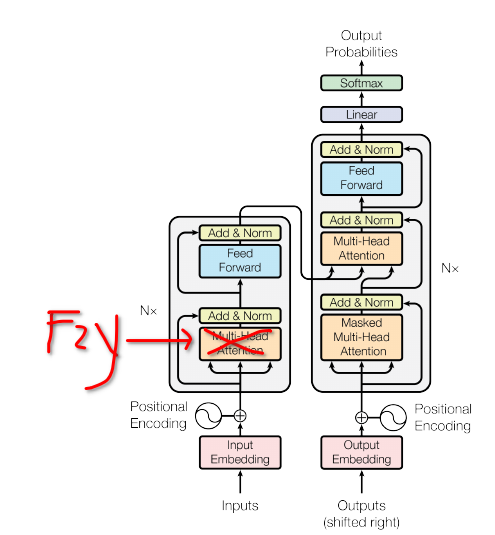
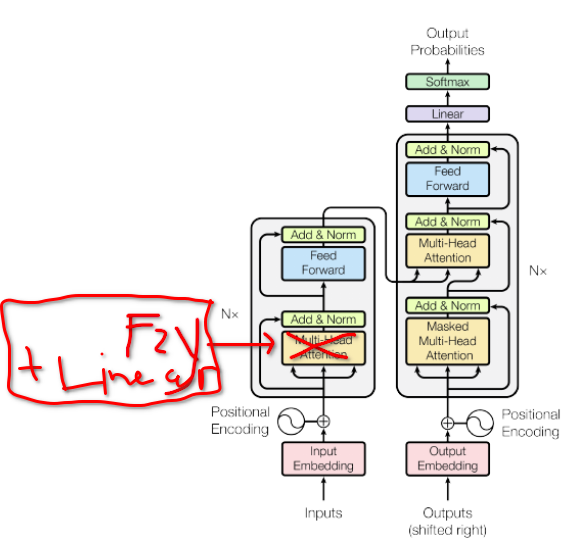
upd: model 5 arch

Changed region(s): [[0.0, 0.0299, 0.9697, 1.0]]

diff --git a/proposal-5.py b/proposal-5.py
@@ -43,7 +43,7 @@ class Proposal5EncoderLayer(nn.TransformerEncoderLayer):
     """
     __constants__ = ['batch_first', 'norm_first']
 
-    def __init__(self, d_model, nhead, dim_feedforward=2048, dropout=0.1, activation=F.relu,
+    def __init__(self, d_model, nhead, dim_fuzzy=128, dim_feedforward=2048, dropout=0.1, activation=F.relu,
                  layer_norm_eps=1e-5, batch_first=False, norm_first=False,
                  device=None, dtype=None) -> None:
         factory_kwargs = {'device': device, 'dtype': dtype}
@@ -58,8 +58,10 @@ class Proposal5EncoderLayer(nn.TransformerEncoderLayer):
             norm_first=norm_first,
             device=device, 
             dtype=dtype)
-        self.fuzzy_membership = MembershipFunctionLayer(d_model, d_model)
+        self.fuzzy_membership = MembershipFunctionLayer(d_model, dim_fuzzy)
         self.fuzzy_rule = FuzzyRuleLayer()
+        self.linear0 = nn.Linear(dim_fuzzy, d_model)
+
         # Implementation of Feedforward model
         self.linear1 = nn.Linear(d_model, dim_feedforward, **factory_kwargs)
         self.dropout = nn.Dropout(dropout)
@@ -93,20 +95,21 @@ class Proposal5EncoderLayer(nn.TransformerEncoderLayer):
 
         x = src
         if self.norm_first:
-            x = x + self.fuzzy_block(self.norm1(x))
+            x = x + self.fuzzy_block_new(self.norm1(x))
             x = x + super()._ff_block(self.norm2(x))
         else:
-            x = self.norm1(x + self.fuzzy_block(x))
+            x = self.norm1(x + self.fuzzy_block_new(x))
             x = self.norm2(x + super()._ff_block(x))
         return x
 
-    def fuzzy_block (self, x: torch.Tensor)->torch.Tensor:
-        x = self.fuzzy_rule(self.fuzzy_membership(x))
+    def fuzzy_block_new (self, x: torch.Tensor)->torch.Tensor:
+        x = self.linear0(self.fuzzy_rule(self.fuzzy_membership(x)))
         return self.dropout1(x)
 
 
 class Proposal5Encoder (FairseqEncoder):
     def __init__(self, max_src_len: int, dictionary, num_layer: int,
+        dim_fuzzy: int,
         dim_model: int, dim_feedforward: int, num_head: int, dropout: float):
         super().__init__(dictionary)
         self.dictionary = dictionary
@@ -115,6 +118,7 @@ class Proposal5Encoder (FairseqEncoder):
         self.embedding = PositionalEncodedEmbedding(max_src_len, dim_model, len(dictionary), dictionary.pad())
         encoder_layer = Proposal5EncoderLayer(d_model=dim_model,
             nhead=num_head,
+            dim_fuzzy=dim_fuzzy,
             dim_feedforward=dim_feedforward,
             dropout=dropout,
             batch_first=True)
@@ -232,6 +236,7 @@ class Proposal5Transformer(FairseqEncoderDecoderModel):
         decoder = NNTransformerDecoder(args.max_tgt_len,
             dictionary=task.target_dictionary,
             num_layer=args.num_layer,
+            dim_fuzzy=args.dim_fuzzy,
             dim_model=args.dim_model,
             dim_feedforward= args.dim_feedforward,
             num_head=args.num_head,
@@ -246,7 +251,7 @@ def mytransformer_default(args):
     # on the command-line, so that the defaults defined below are only used
     # when no other value has been specified.
     args.num_layer = getattr(args, 'num_layer', 6)
-    args.dim_fuzzy = getattr(args, 'dim_fuzzy', 128) # UNUSED
+    args.dim_fuzzy = getattr(args, 'dim_fuzzy', 128)
     args.dim_model = getattr(args, 'dim_model', 128)
     args.dim_feedforward = getattr(args, 'dim_feedforward', 2048)
     args.num_head = getattr(args, 'num_head', 8)
